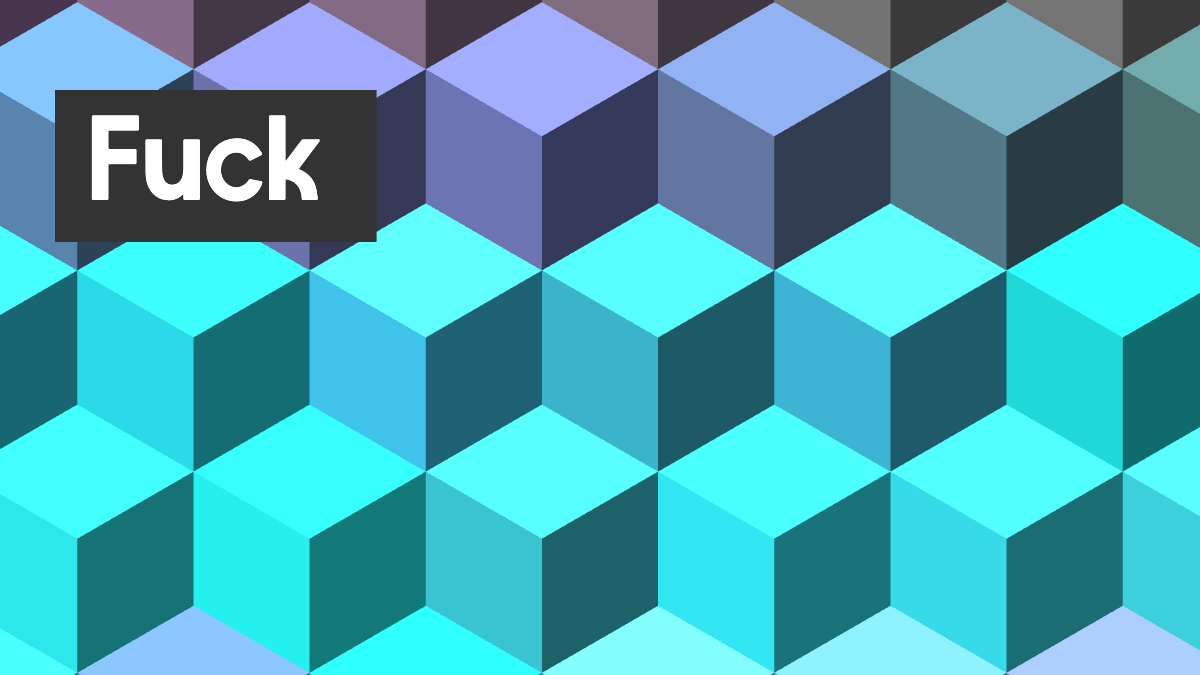
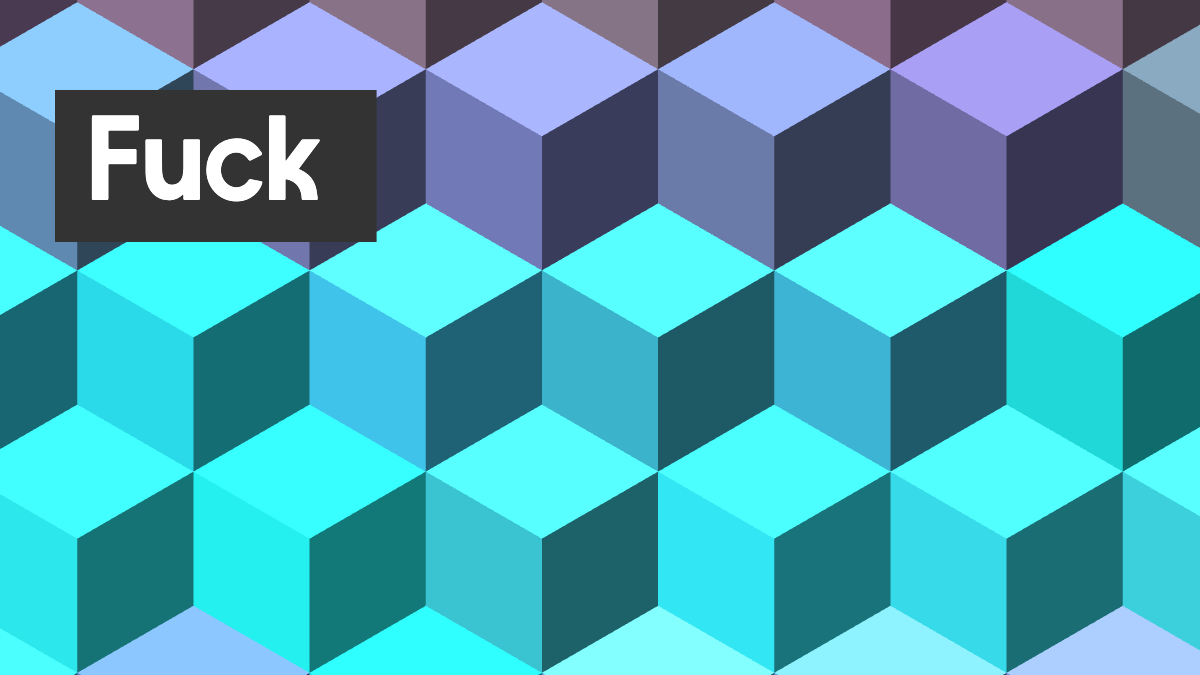
progress on og:image

Changed region(s): [[0.74, 0.0, 0.9558, 0.4044]]

diff --git a/eleventy.config.js b/eleventy.config.js
@@ -4,23 +4,23 @@ import { InputPathToUrlTransformPlugin, HtmlBasePlugin } from "@11ty/eleventy";
 import { feedPlugin } from "@11ty/eleventy-plugin-rss";
 import pluginSyntaxHighlight from "@11ty/eleventy-plugin-syntaxhighlight";
 import pluginNavigation from "@11ty/eleventy-navigation";
-import {  eleventyImageTransformPlugin } from "@11ty/eleventy-img";
-import  Image from "@11ty/eleventy-img";
+import { eleventyImageTransformPlugin } from "@11ty/eleventy-img";
+import Image from "@11ty/eleventy-img";
 
 import pluginFilters from "./_config/filters.js";
 import { siteUrl } from "./config.js";
-import {readFileSync} from 'fs';
-
+import { readFileSync } from "fs";
 
 /** @param {import("@11ty/eleventy").UserConfig} eleventyConfig */
-export default async function(eleventyConfig) {
+export default async function (eleventyConfig) {
 	// Copy the contents of the `public` folder to the output folder
 	// For example, `./public/css/` ends up in `_site/css/`
 	eleventyConfig
 		.addPassthroughCopy({
 			"./public/": "/",
 			"./img/": "/img/",
-			"./node_modules/prismjs/themes/prism-okaidia.css": "/css/prism-okaidia.css"
+			"./node_modules/prismjs/themes/prism-okaidia.css":
+				"/css/prism-okaidia.css",
 		})
 		.addPassthroughCopy("./content/feed/pretty-atom-feed.xsl");
 
@@ -48,8 +48,7 @@ export default async function(eleventyConfig) {
 	eleventyConfig.addPlugin(feedPlugin, {
 		outputPath: "/feed/feed.xml",
 		stylesheet: "pretty-atom-feed.xsl",
-		templateData: {
-		},
+		templateData: {},
 		collection: {
 			name: "home",
 			limit: 10,
@@ -60,16 +59,15 @@ export default async function(eleventyConfig) {
 			subtitle: "James thinks out loud",
 			base: siteUrl,
 			author: {
-				name: "James M"
-			}
-		}
+				name: "James M",
+			},
+		},
 	});
 	// Atom Feed
 	eleventyConfig.addPlugin(feedPlugin, {
 		outputPath: "/feed/posts.xml",
 		stylesheet: "pretty-atom-feed.xsl",
-			templateData: {
-			},
+		templateData: {},
 		collection: {
 			name: "posts",
 			limit: 20,
@@ -80,16 +78,15 @@ export default async function(eleventyConfig) {
 			subtitle: "James thinks out loud - posts",
 			base: siteUrl,
 			author: {
-					name: "James M"
-				}
-			}
+				name: "James M",
+			},
+		},
 	});
 	// Atom Feed
 	eleventyConfig.addPlugin(feedPlugin, {
 		outputPath: "/feed/thoughts.xml",
 		stylesheet: "pretty-atom-feed.xsl",
-			templateData: {
-			},
+		templateData: {},
 		collection: {
 			name: "thoughts",
 			limit: 20,
@@ -100,9 +97,9 @@ export default async function(eleventyConfig) {
 			subtitle: "James thinks out loud - thoughts",
 			base: siteUrl,
 			author: {
-					name: "James Magness"
-				}
-			}
+				name: "James Magness",
+			},
+		},
 	});
 
 	// Image optimization: https://www.11ty.dev/docs/plugins/image/#eleventy-transform
@@ -116,7 +113,6 @@ export default async function(eleventyConfig) {
 		// widths: ["auto"],
 		svgShortCircuit: true,
 
-
 		defaultAttributes: {
 			// e.g. <img loading decoding> assigned on the HTML tag will override these values.
 			loading: "lazy",
@@ -124,44 +120,49 @@ export default async function(eleventyConfig) {
 		},
 	});
 
-
-
-
 	eleventyConfig.addShortcode("metaImage", async function (path, fileName) {
-		if (!path || !fileName)
-		{return '';} else {
-		try {
-		const src = `content/${path}/img/banner/${fileName}.png`;
-		let metadata = await Image(src, {
-			widths: [1200],
-			formats: ["png"],
-		});
+		if (!path || !fileName) {
+			return "";
+		} else {
+			try {
+				const src = `content/${path}/img/banner/${fileName}.png`;
+				let metadata = await Image(src, {
+					widths: [1200],
+					formats: ["png"],
+				});
 
-		let data = metadata.png[metadata.png.length - 1];
-		// console.log(data);
-		return `<meta property="og:image" content="${data.url}" />`;
-	} catch (e) {
-		console.log('No image found for ', path, fileName)
-	}}
+				let data = metadata.png[metadata.png.length - 1];
+				return `<meta property="og:image" content="${data.url}" />`;
+			} catch (e) {
+				console.log("No image found for ", path, fileName);
+			}
+		}
 	});
 
-	eleventyConfig.addNunjucksAsyncShortcode( "svgIcon", async (path, fileName, type="string") => {
-		const fullPath = `./content/${path}/img/banner/${fileName}.svg`;
-		// const fullPath = `./content/posts/img/banner/when-is-software-done.svg`;
-		console.log(fullPath);
-		// let relativeFilePath = `./src/svg/${file}.svg`;
-		let data = readFileSync(fullPath, function (err, contents) {
-			if (err) return err;
-			return contents;
-		});
-
-		if (type === 'base64') {
-			return data.toString('base64');;
+	eleventyConfig.addNunjucksAsyncShortcode( "svgIcon", async function (path, fileName, type = "string") {
+		if (!path || !fileName) {
+			return "";
 		} else {
-			return data.toString("utf8");
+			try {
+				const fullPath = `./content/${path}/img/banner/${fileName}.svg`;
+				// const fullPath = `./content/posts/img/banner/when-is-software-done.svg`;
+				console.log(fullPath);
+				// let relativeFilePath = `./src/svg/${file}.svg`;
+				let data = readFileSync(fullPath, function (err, contents) {
+					if (err) return err;
+					return contents;
+				});
+
+				if (type === "base64") {
+					return data.toString("base64");
+				} else {
+					return data.toString("utf8");
+				}
+			}catch (e) {
+				console.log("No SVG found for ", path, fileName);
+			}
 		}
-		}
-	);
+	});
 
 	// Filters
 	eleventyConfig.addPlugin(pluginFilters);
@@ -194,22 +195,18 @@ export default async function(eleventyConfig) {
 
 	// eleventyConfig.setServerPassthroughCopyBehavior("passthrough");
 
-
 	eleventyConfig.addCollection("home", function (collectionApi) {
-	return collectionApi.getFilteredByGlob(["content/posts/*", "content/thoughts/*"]);
+		return collectionApi.getFilteredByGlob([
+			"content/posts/*",
+			"content/thoughts/*",
+		]);
 	});
 }
 
 export const config = {
 	// Control which files Eleventy will process
 	// e.g.: *.md, *.njk, *.html, *.liquid
-	templateFormats: [
-		"md",
-		"njk",
-		"html",
-		"liquid",
-		"11ty.js",
-	],
+	templateFormats: ["md", "njk", "html", "liquid", "11ty.js"],
 
 	// Pre-process *.md files with: (default: `liquid`)
 	markdownTemplateEngine: "njk",
@@ -219,10 +216,10 @@ export const config = {
 
 	// These are all optional:
 	dir: {
-		input: "content",          // default: "."
-		includes: "../_includes",  // default: "_includes" (`input` relative)
-		data: "../_data",          // default: "_data" (`input` relative)
-		output: "_site"
+		input: "content", // default: "."
+		includes: "../_includes", // default: "_includes" (`input` relative)
+		data: "../_data", // default: "_data" (`input` relative)
+		output: "_site",
 	},
 
 	// -----------------------------------------------------------------

diff --git a/glitch/glitch-crawl.test.js b/glitch/glitch-crawl.test.js
@@ -45,6 +45,7 @@ const renderAndShoot = async (page, item, area='posts') => {
 }
 
 test("crawl glitch posts", async ({ request, page }) => {
+  test.setTimeout(120000);
 	const dataUrl = `${host}:${port}/glitch.json`;
 	const testData = await (await request.get(dataUrl)).json();
 
@@ -58,6 +59,7 @@ test("crawl glitch posts", async ({ request, page }) => {
 
 
 test("crawl glitch thoughts", async ({ request, page }) => {
+  test.setTimeout(120000);
 	const dataUrl = `${host}:${port}/glitch.json`;
 	const testData = await (await request.get(dataUrl)).json();
 

diff --git a/content/thoughts/2024-09-05T14:03.md b/content/thoughts/2024-09-05T14:03.md
@@ -1,0 +1,35 @@
+---
+title: OG images
+date: 2024-09-05T14:03
+tags:
+  - thoughts
+---
+
+I think I've got `<meta property="og:image" ...>` tags working.
+
+Lots of false starts trying to figure out how to get Eleventy to to give me the tag with a url that matched the optimised glitch URLs.
+
+I had issues with importing the correct esm `Image` not `{ Image }`.
+I had issues resolving paths as they are different from the ones used in the automatic transform.
+
+I eventually figured out a modified version of `eleventy-image` [Make your own Markup](https://www.11ty.dev/docs/plugins/image/#make-your-own-markup) would work when I lined up the other bits I had wrong.
+```
+	eleventyConfig.addShortcode("metaImage", async function (path, fileName) {
+		if (!path || !fileName) {
+			return "";
+		} else {
+			try {
+				const src = `content/${path}/img/banner/${fileName}.png`;
+				let metadata = await Image(src, {
+					widths: [1200],
+					formats: ["png"],
+				});
+
+				let data = metadata.png[metadata.png.length - 1];
+				return `<meta property="og:image" content="${data.url}" />`;
+			} catch (e) {
+				console.log("No image found for ", path, fileName);
+			}
+		}
+	});
+```
